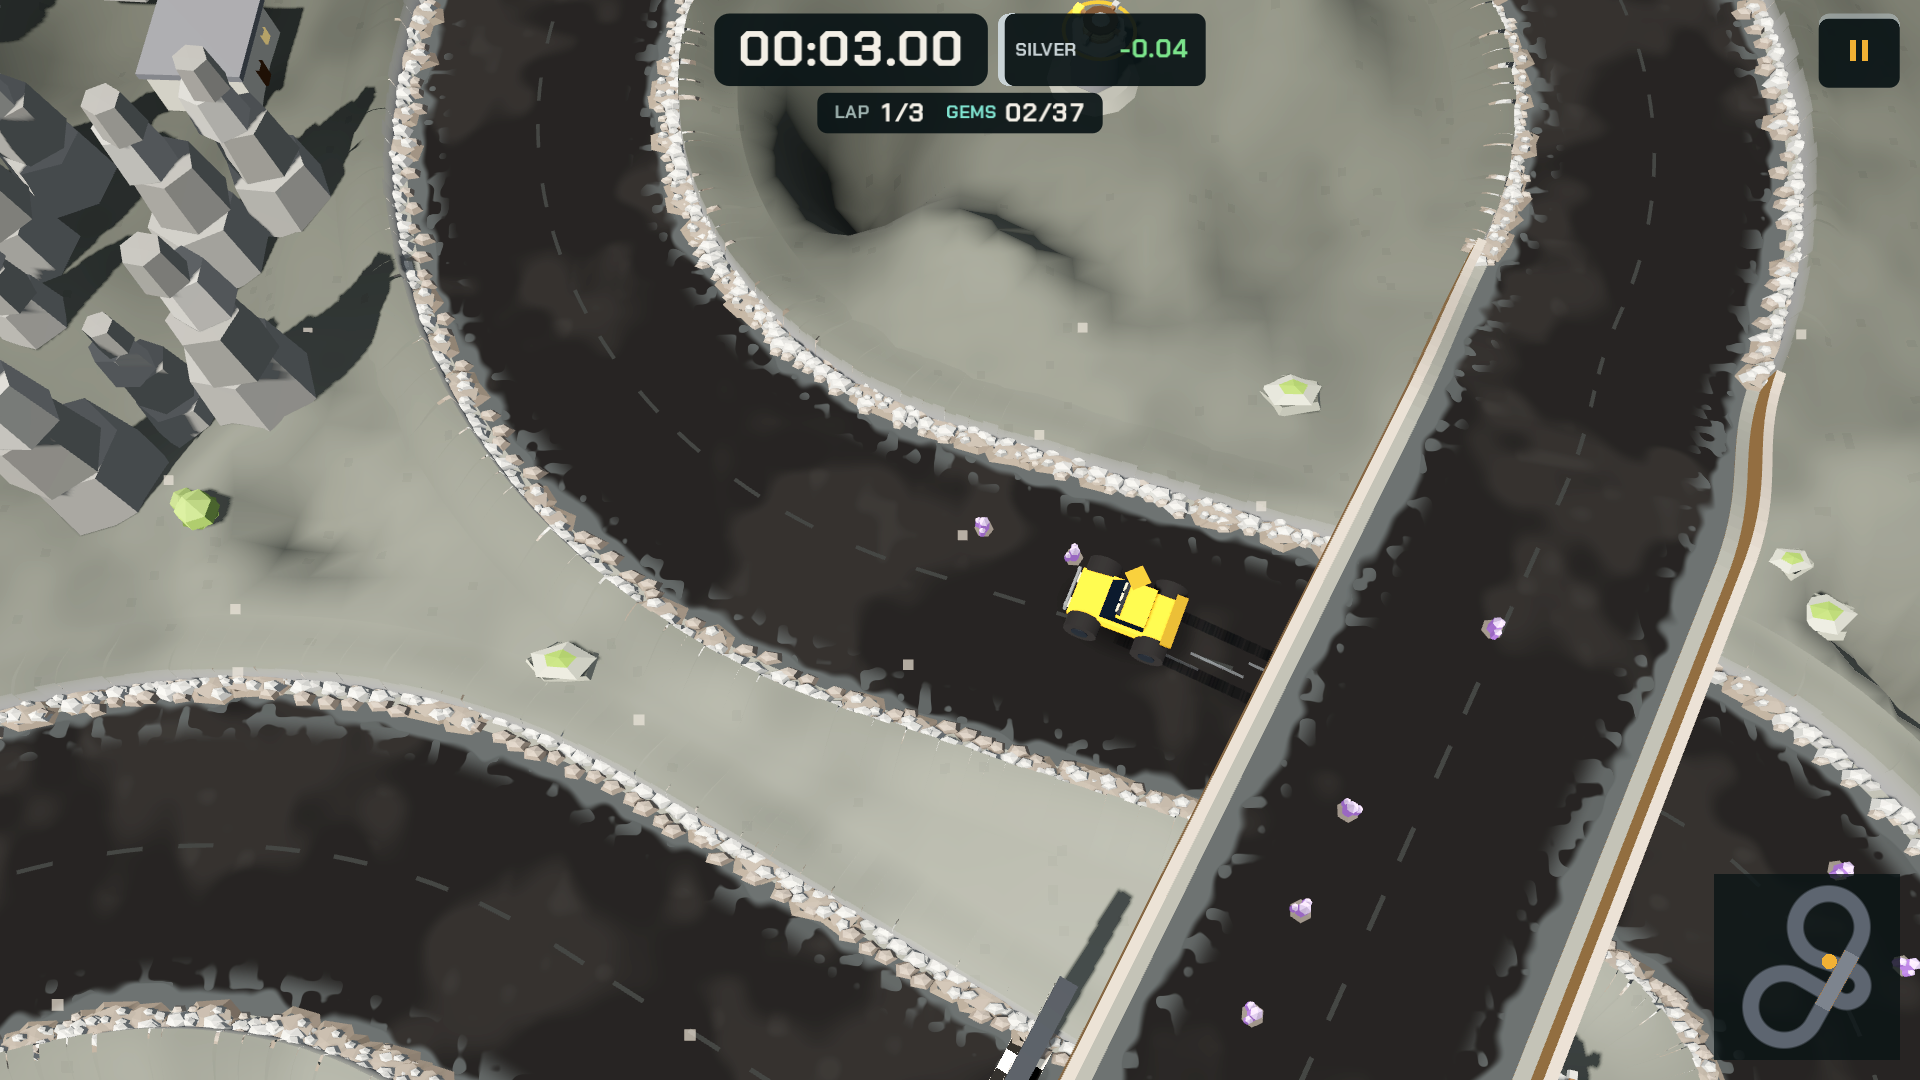
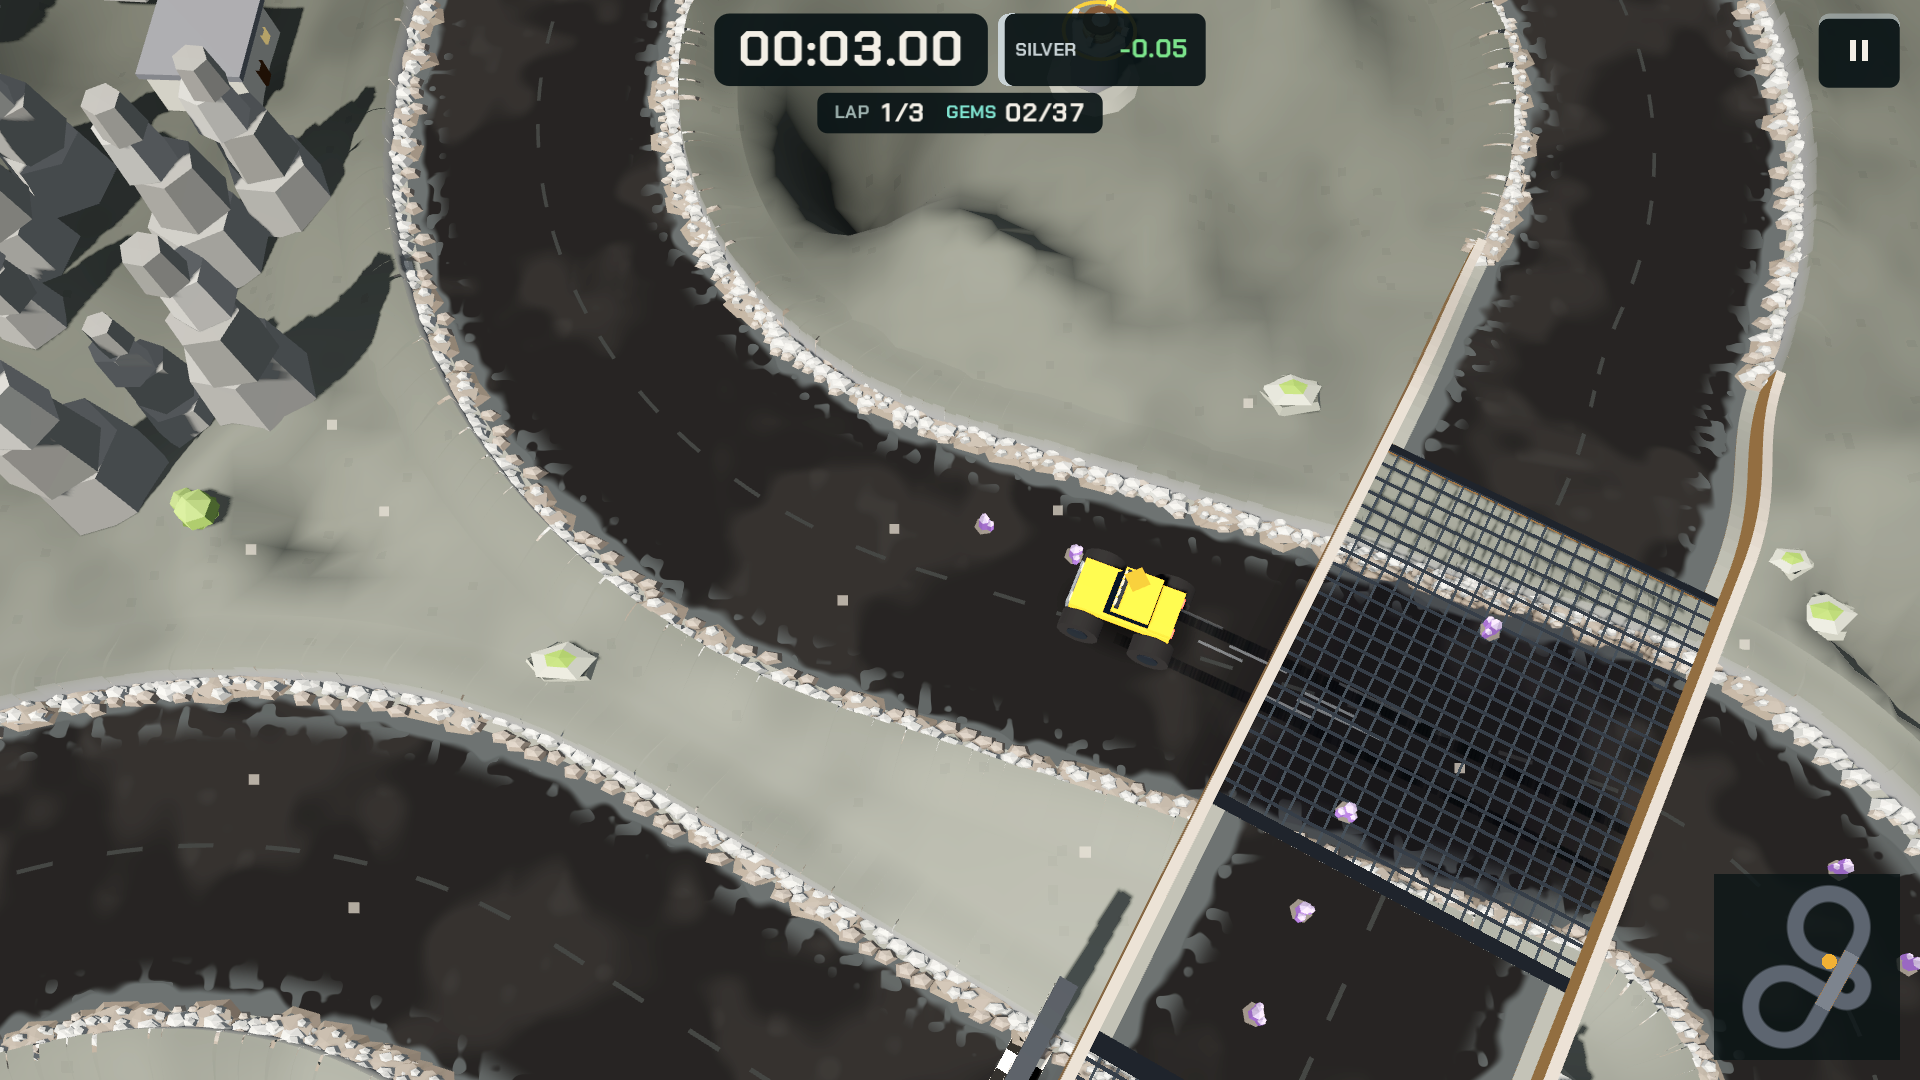
Under a bridge the car stays in sight: see-through deck window per world (#83)
* WIP: underpass preview options (deck window, slot, x-ray silhouette)

Claude-Session: https://claude.ai/code/session_01VxP4frZqFUbv79Scry8AGe

* Underpass: see-through deck window only, test

* Underpass test in CI, AGENTS.md notes on bridges

Claude-Session: https://claude.ai/code/session_01VxP4frZqFUbv79Scry8AGe

* Re-render Forest, Sand and Rock loading art (bridge windows in the background)

Claude-Session: https://claude.ai/code/session_01VxP4frZqFUbv79Scry8AGe

* Store screenshot 04-collect re-captured: the bridge window shows the lane below

Claude-Session: https://claude.ai/code/session_01VxP4frZqFUbv79Scry8AGe

---------

diff --git a/AGENTS.md b/AGENTS.md
@@ -58,6 +58,7 @@ godot --headless --path . --script tests/rivals_test.gd    # rival tiers get har
 godot --headless --path . --script tests/obstacles_test.gd # the AI's line never touches an Obstacles post
 godot --headless --path . --script tests/camera_test.gd    # low camera shots: off while racing, never inside the land
 godot --headless --path . --script tests/engine_test.gd    # every vehicle has an engine sound that loops cleanly
+godot --headless --path . --script tests/underpass_test.gd # all deck over a lower lane is a see-through window
 ```
 
 After changing a track layout, rerun `tools/gen_obstacles.gd` (posts placed off the AI's racing line,
@@ -66,7 +67,9 @@ Also bump `LAYOUT_VERSION` in `scripts/records.gd`, so players' best times and g
 road are dropped (medals and campaign progress stay). `tools/tighten_layout.gd` searches for a
 layout with short links (about one lane between bends) that still passes the layout check.
 
-Writing a `SceneTree` test: a node added to `root` only gets `_ready()` after `await process_frame`
+Writing a `SceneTree` test: after `view.build()` the old nodes are only queued for deletion, so a
+new node given the same `name` gets renamed; tag nodes a test looks for with `set_meta()` instead.
+Also in a `SceneTree` test: a node added to `root` only gets `_ready()` after `await process_frame`
 (see `tests/camera_test.gd`), and a runtime error stops the test function before `quit()`, so the run
 hangs instead of failing. Wrap local runs in `timeout`.
 
@@ -137,6 +140,11 @@ Only redo the ones where the change is visible, and put before/after images in t
   under the old rules). The bump drops best times and ghosts only: medals live in their own keys
   (`medal_trial`, `medal_race` in `records.cfg`), so anything a player earned must be saved as its
   own value, never only worked out from a time the bump erases.
+- Bridges (Guillaume, 2026-11-13): the stretch of deck right above the lane below is a see-through
+  window in the world's material (clear ice, timber planks, carved lattice, steel grating), so a car
+  under a bridge never vanishes; visual only (`_window_spans`, `_window_mat` in `world_view.gd`).
+  `track.bridges[k]["under"]` is not always the lower road (the height solver can swap levels):
+  compare `height_at` of both passes, as `WorldView._crossings()` does.
 - The race camera stays fairly top-down (68°) while the player steers, so lines through bends stay
   readable. Low cinematic shots (`WorldView.CINE_SHOTS`, picked in `main.gd` `_pick_shot`) are only
   for moments nobody steers: countdown, finish/results, the tutorial's cards and frozen bends.
